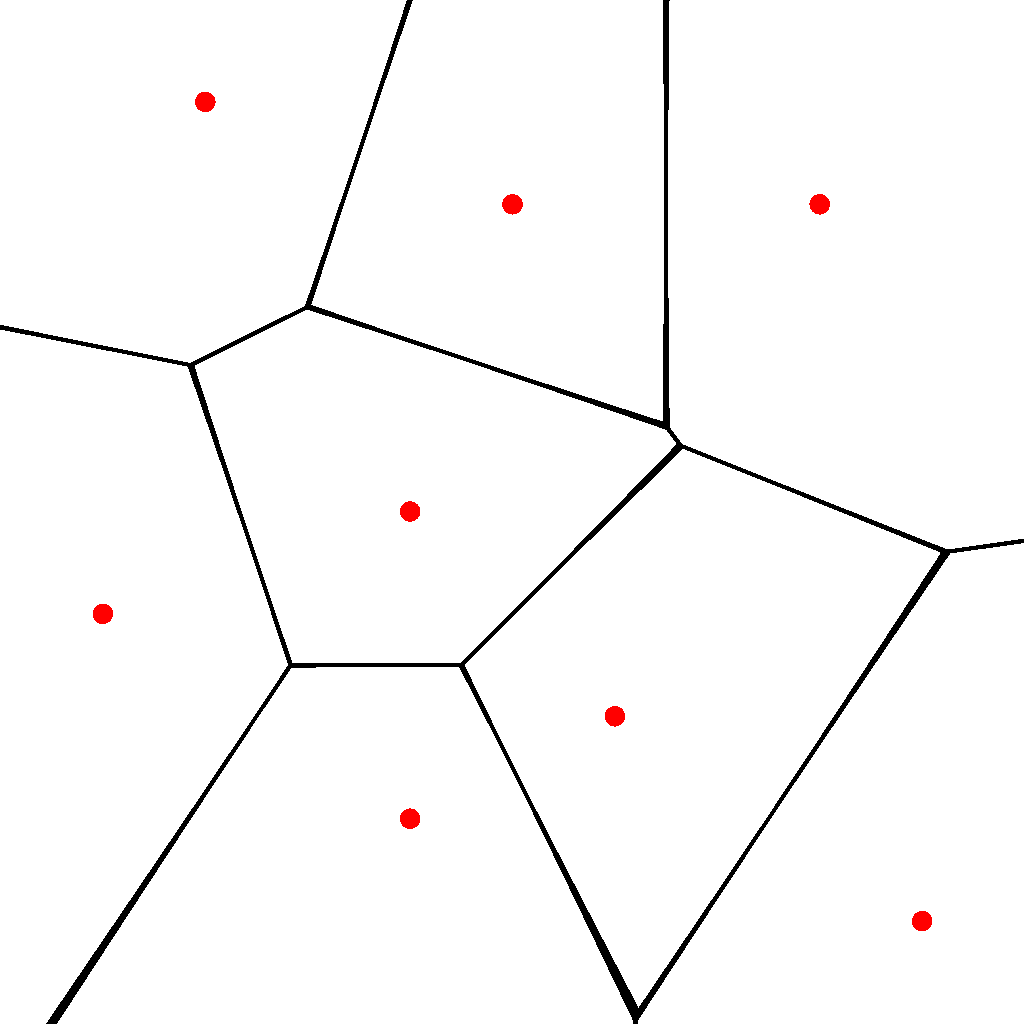
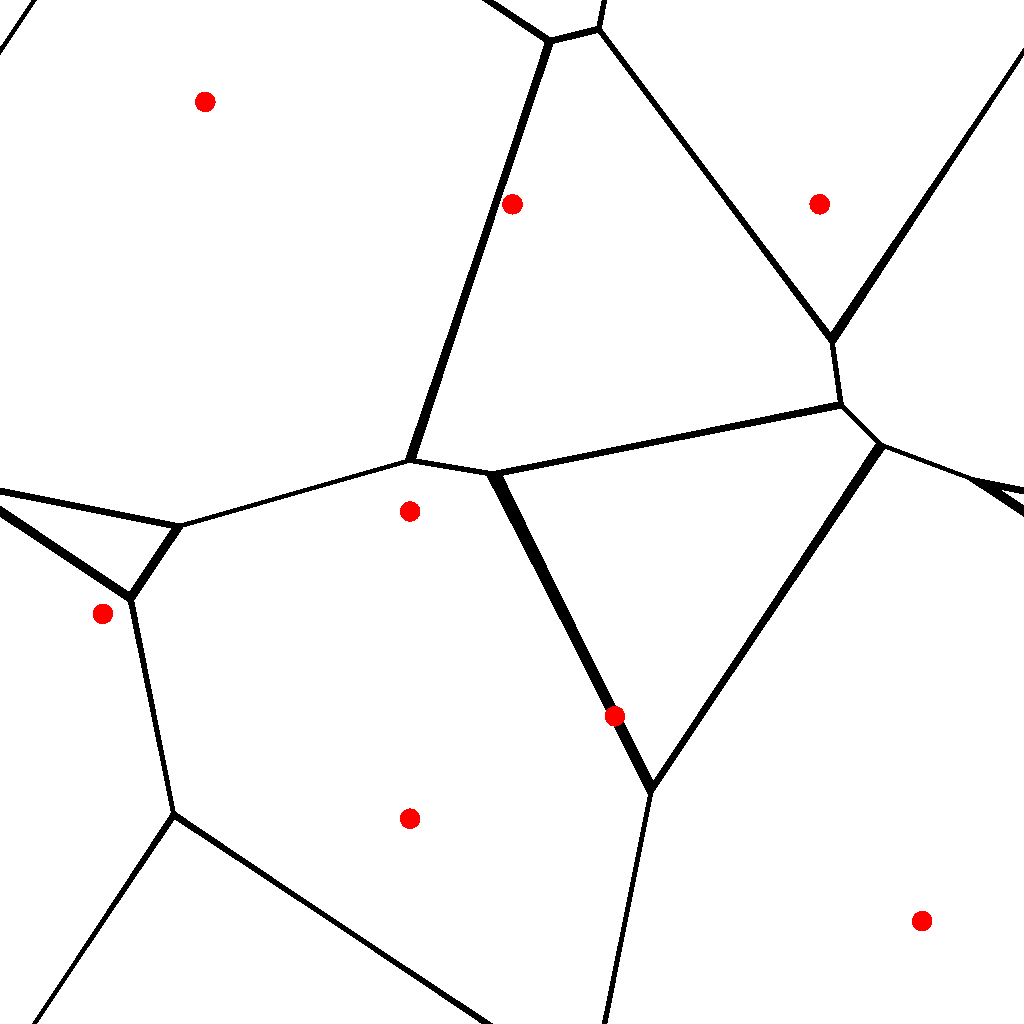
made border 3d

diff --git a/border.py b/border.py
@@ -7,19 +7,28 @@ compute_shader_source = ""
 with open('border_shader.glsl', 'r') as file:
     compute_shader_source = file.read()
 
-# Example input: a simple 4x4 array
-points_data = numpy.array([[
-    [0.5, 0.8],
-    [0.6, 0.3],
-    [0.2, 0.9],
-    [0.4, 0.2],
-    [0.1, 0.4],
-    [0.9, 0.1],
-    [0.8, 0.8],
-    [0.4, 0.5]
-]], dtype='f4') # 'f4' is for 32-bit float
 
+point_number = 16
 width, height = 1024, 1024
+frames_per_second = 30
+total_seconds = 5
+
+total_frames = frames_per_second*total_seconds
+
+rng = numpy.random.default_rng(2)
+# Example input: a simple 4x4 array
+points_data = rng.random((1, point_number, 3))
+points_data = numpy.concatenate((points_data, numpy.zeros((1, point_number, 1))), axis=2)
+# points_data = numpy.array([[
+#     [0.5, 0.8, 0.4, 0.0],
+#     [0.6, 0.3, 0.8, 0.0],
+#     [0.2, 0.9, 0.1, 0.0],
+#     [0.4, 0.2, 0.3, 0.0],
+#     [0.1, 0.4, 0.7, 0.0],
+#     [0.9, 0.1, 0.2, 0.0],
+#     [0.8, 0.8, 0.6, 0.0],
+#     [0.4, 0.5, 0.0, 0.0]
+# ]], dtype='f4') # 'f4' is for 32-bit float
 
 # 1. Initialize ModernGL context
 # This example uses a headless context. For a windowed app,
@@ -29,9 +38,9 @@ context = moderngl.create_standalone_context(require=430)
 # 2. Create the input texture from the numpy array
 # The format 'r32f' is for a single 32-bit float channel, perfect for grayscale.
 points_texture = context.texture(
-    (8, 1),
-    components=2,
-    data=points_data.tobytes(),
+    (point_number, 1),
+    components=4,
+    data=points_data.astype('f4').tobytes(),
     dtype='f4',
 )
 
@@ -46,6 +55,8 @@ output_texture = context.texture(
 
 # 5. Create a ComputeShader object and bind textures
 compute_shader = context.compute_shader(compute_shader_source)
+compute_shader['width'] = width
+compute_shader['height'] = height
 
 # Bind the textures to their respective image units
 # Output image is write-only (read=False, write=True)
@@ -58,27 +69,34 @@ points_texture.bind_to_image(unit=1, read=True, write=False)
 # We divide the total dimensions by the local workgroup size (4x4)
 group_x = width // 32
 group_y = height // 32
-compute_shader.run(group_x=group_x, group_y=group_y)
 
-# 7. Read the output texture data back to a numpy array
-output_data = numpy.frombuffer(output_texture.read(), dtype='f4').reshape(height, width, 4)
-print(output_data[0][0])
-output_data = numpy.delete(output_data, 3, axis=2)
-output_data = numpy.flip(output_data, axis=0)
+frames:list[Image.Image] = []
+for i in range(total_frames):
+    print(i/total_frames)
+    compute_shader['time'] = i/total_frames
+    compute_shader.run(group_x=group_x, group_y=group_y)
 
-# Print the results
-# print("Input array:")
-# print(input_data)
-# print("\nOutput array:")
-# print(output_data)
+    # 7. Read the output texture data back to a numpy array
+    output_data = numpy.frombuffer(output_texture.read(), dtype='f4').reshape(height, width, 4)
+    # print(output_data[8][0])
+    output_data = numpy.delete(output_data, 3, axis=2)
+    output_data = numpy.flip(output_data, axis=0)
 
-rgb_image_array = (output_data*255).astype(numpy.uint8)
-# print(rgb_image_array)
+    # Print the results
+    # print("Input array:")
+    # print(input_data)
+    # print("\nOutput array:")
+    # print(output_data)
 
-# create image
-image = Image.fromarray(rgb_image_array, "RGB")
+    rgb_image_array = (output_data*255).astype(numpy.uint8)
+    # print(rgb_image_array)
+
+    # create image
+    image = Image.fromarray(rgb_image_array, "RGB")
+    frames.append(image)
+
 # save image
-image.save("border.png")
+frames[0].save("border.gif", save_all=True, append_images=frames[1:], optimize=False, duration=1000/frames_per_second,loop=0)
  
 # Optional: Release resources
 context.release()
